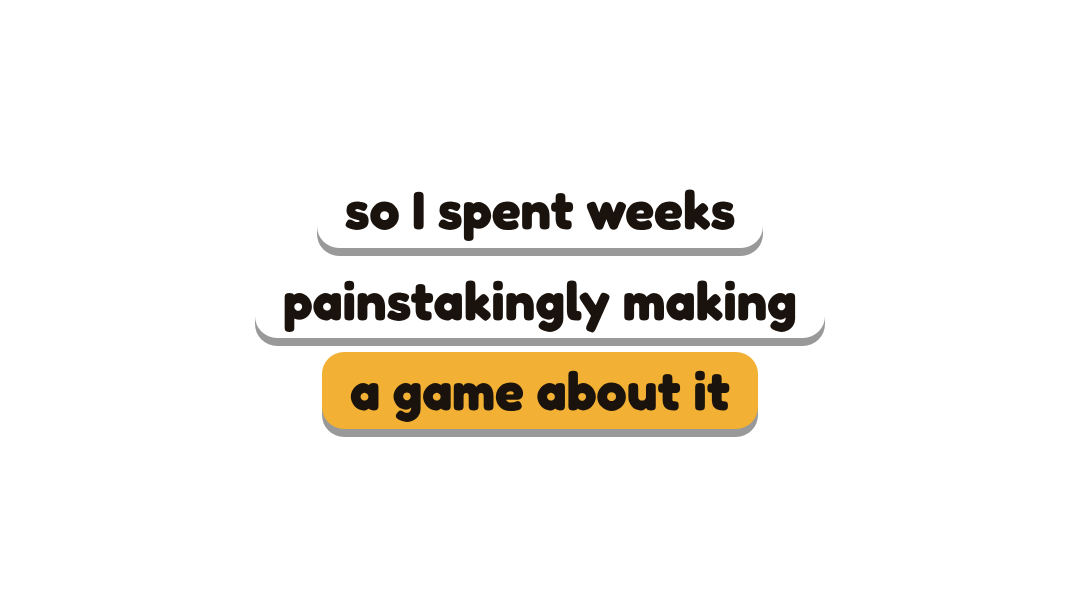
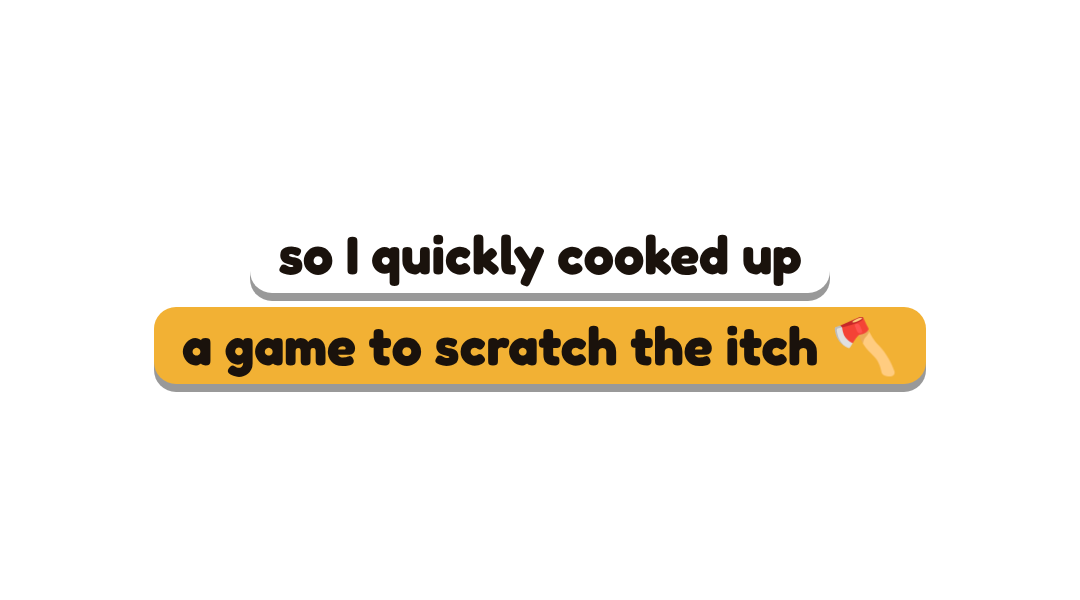
Promo: voice script, recording importer, reworded line 3
Claude-Session: https://claude.ai/code/session_01VvTThSyubTfLjcKzLVeRXP

Changed region(s): [[0.1222, 0.3, 0.8556, 0.75]]

diff --git a/promo/importvoice.py b/promo/importvoice.py
@@ -1,0 +1,26 @@
+# Split one voice-memo take into the 11 VO lines on silences, normalize, update durations.
+# Usage: python3 importvoice.py recording.m4a [min_silence_seconds=0.6]
+import sys, json, subprocess, re, os
+src = sys.argv[1]; min_sil = float(sys.argv[2]) if len(sys.argv) > 2 else 0.6
+lines = json.load(open('vo/lines.json'))
+# normalize to mono wav, light cleanup (high-pass rumble, de-ess-ish lowpass, loudness)
+subprocess.check_call(['ffmpeg', '-y', '-v', 'error', '-i', src, '-ac', '1', '-ar', '44100', '-af', 'highpass=f=80,lowpass=f=12000,afftdn=nf=-28,loudnorm=I=-16:TP=-1.5:LRA=9', 'vo/_take.wav'])
+out = subprocess.run(['ffmpeg', '-i', 'vo/_take.wav', '-af', f'silencedetect=noise=-32dB:d={min_sil}', '-f', 'null', '-'], capture_output=True, text=True).stderr
+starts = [float(x) for x in re.findall(r'silence_start: ([\d.]+)', out)]; ends = [float(x) for x in re.findall(r'silence_end: ([\d.]+)', out)]
+dur = float(subprocess.check_output(['ffprobe', '-v', 'error', '-show_entries', 'format=duration', '-of', 'csv=p=0', 'vo/_take.wav']))
+# speech chunks = gaps between silences
+bounds = []; cur = 0.0 if not starts or starts[0] > 0.2 else None
+if cur is None: cur = ends[0]; ends = ends[1:]; starts = starts[1:]
+for s, e in zip(starts, ends + [dur]):
+    if s - cur > 0.35: bounds.append((cur, s))
+    cur = e
+if dur - cur > 0.35: bounds.append((cur, dur))
+print(f'found {len(bounds)} chunks for {len(lines)} lines')
+if len(bounds) != len(lines):
+    for i, (a, b) in enumerate(bounds): print(f'  chunk {i+1}: {a:.2f}-{b:.2f} ({b-a:.2f}s)')
+    print('Tip: re-run with a different silence length, e.g. python3 importvoice.py file.m4a 0.45'); sys.exit(1)
+for l, (a, b) in zip(lines, bounds):
+    subprocess.check_call(['ffmpeg', '-y', '-v', 'error', '-i', 'vo/_take.wav', '-ss', f'{max(0, a - 0.08):.3f}', '-to', f'{min(dur, b + 0.12):.3f}', '-af', 'afade=t=in:d=0.03,afade=t=out:st=0:d=0', f"vo/{l['id']}.wav"])
+    l['dur'] = round(min(dur, b + 0.12) - max(0, a - 0.08), 2); print(l['id'], l['dur'], l['text'][:48])
+json.dump(lines, open('vo/lines.json', 'w'), indent=1); os.remove('vo/_take.wav')
+print('done — now run: python3 assemble.py')

diff --git a/promo/assemble.py b/promo/assemble.py
@@ -59,7 +59,7 @@ f.append(f"{cur}fade=t=out:st={TOTAL - 0.5:.2f}:d=0.5[vout]")
 alabels = []
 for i, start in events:
     ms = int(start * 1000)
-    f.append(f"[{idx_vo[i]}:a]aformat=sample_rates=44100:channel_layouts=mono,volume=1.6,adelay={ms}|{ms}[a_{i}]"); alabels.append(f'[a_{i}]')
+    f.append(f"[{idx_vo[i]}:a]aformat=sample_rates=44100:channel_layouts=mono,volume=1.0,adelay={ms}|{ms}[a_{i}]"); alabels.append(f'[a_{i}]')
 f.append(f"[{idx_music}:a]aformat=sample_rates=44100:channel_layouts=mono,volume=0.13,atrim=duration={TOTAL:.2f},afade=t=out:st={TOTAL - 1.5:.2f}:d=1.5[am]"); alabels.append('[am]')
 f.append(''.join(alabels) + f"amix=inputs={len(alabels)}:normalize=0:dropout_transition=0,alimiter=limit=0.95[aout]")
 cmd = ['ffmpeg', '-y', '-v', 'error', *inputs, '-filter_complex', ';'.join(f), '-map', '[vout]', '-map', '[aout]', '-t', f'{TOTAL:.2f}', '-r', str(FPS), '-c:v', 'libx264', '-preset', 'medium', '-crf', '20', '-pix_fmt', 'yuv420p', '-c:a', 'aac', '-b:a', '160k', '-movflags', '+faststart', 'big_timber_tiktok.mp4']

diff --git a/promo/SCRIPT.md b/promo/SCRIPT.md
@@ -1,0 +1,19 @@
+# Big Timber TikTok — voiceover script
+
+Record on your phone (Voice Memos is fine) in a quiet room, phone about a hand's width from your mouth.
+One take is fine: read each line, then **pause about one second** between lines. Casual, like you're telling a friend.
+Flubbed a line? Just pause and say it again; the splitter keeps the last clean take if you tell me which.
+
+1. I went to the Trees of Mystery and stood under a forty-nine foot Paul Bunyan.
+2. I fell in love with the lore.
+3. So I quickly cooked up a game to scratch the itch.
+4. You chop trees as Paul.
+5. Hit the glowing knots for crits, and keep the rhythm for combos.
+6. Then you ride Babe the Blue Ox to the sawmill.
+7. Drift the corners, jump the logs, and don't spill your cargo.
+8. Sell the lumber, build the camp, and hire the whole crew.
+9. Yes. Including Sport, the Reversible Dog.
+10. It's free in your browser. Link's in the comments.
+11. Go fell some trees.
+
+Send me the file (m4a, mp3, wav, anything). I'll split it on the pauses, line it up with the clips, and re-cut.
